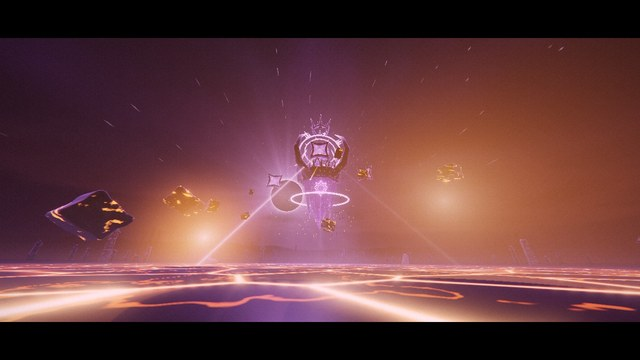
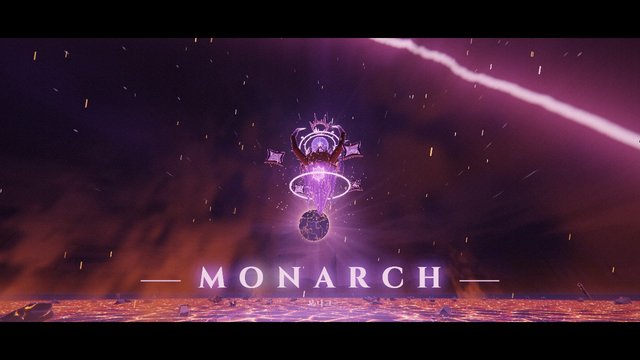
MONARCH V2: quality pass - lava, veins, smoke columns, 3D ash, heat haze, lens dirt
Warped Voronoi lava with sparks, crystal veins in the obsidian keel,
fire underlight, billowing smoke columns at strike sites, camera-relative
3D ash and embers, heat haze over fire, lens dirt and halation, and a
light sweep across the title. Thumbnails refreshed.

diff --git a/public/monarch2_gl.html b/public/monarch2_gl.html
@@ -195,12 +195,12 @@ float veilK(vec3 p){ vec3 v = p - (uM + vec3(0., OY - 14., 0.)); float al = -v.y
 vec3 floorCol(vec3 p, vec3 rd, float t){
   vec2 q = p.xz - uM.xz; float r = length(q), aa = t * 1.5 / uRes.y / max(-rd.y, .02);
   float pud = smoothstep(.46, .6, fbz(p.xz * .018 + 3.)); vec3 col = vec3(.011, .009, .015) * (.6 + .6 * fbz(p.xz * .03)) * (.8 + .4 * fbz(p.xz * .4)) * (1. - .5 * pud); float rough = mix(.45 + .3 * fbz(p.xz * .2), .03, pud);   // 젖은 흑요석 · 웅덩이
-  vec2 g = p.xz * .035; vec2 gi = floor(g), gf = fract(g); float d1 = 8., d2 = 8.;
+  vec2 g = p.xz * .035 + (vec2(fbz(p.xz * .008), fbz(p.xz * .008 + 5.2)) - .5) * 1.6; vec2 gi = floor(g), gf = fract(g); float d1 = 8., d2 = 8.;                   // 비틀린 균열(격자처럼 보이지 않게)
   for (int j = uZero - 1; j <= 1; j++) for (int i = uZero - 1; i <= 1; i++){ vec2 c = vec2(float(i), float(j)), o2 = vec2(hash(gi + c), hash(gi + c + 7.1)); float d = length(c + o2 - gf); if (d < d1){ d2 = d1; d1 = d; } else if (d < d2) d2 = d; }
   float Dd = destroyAt(p.xz), crack = smoothstep(.03 + .09 * Dd + aa * .03, 0., d2 - d1), zone = smoothstep(95., 30., r) * uCrackK + smoothstep(60., 20., r) * uEmerge * 1.5, pul = .7 + .3 * sin(uT * 1.7 - r * .08);                           // 발밑의 균열 문양(지배자와 함께 움직인다)
   col += vec3(.45, .12, 1.) * crack * (zone * 1.6 * pul + .05 * uCrackK) * (1. - Dd) + vec3(.8, .55, 1.) * smoothstep(40., 26., r) * smoothstep(20., 27., r) * uEmerge * 1.2;
   if (Dd > 0.){ float inner = smoothstep(.03 + .04 * Dd, 0., d2 - d1), fine = smoothstep(.012, 0., abs(fbz(p.xz * .06 + 9.) - .5) - .004) * Dd; col *= 1. - .75 * Dd; col += mix(vec3(1., .2, .02), vec3(1., .72, .3), inner) * (crack * (.9 + 1.2 * inner) + fine * .8) * Dd + vec3(.5, .08, .01) * Dd * .03;   // 검은 껍질 사이로 흐르는 용암
-    float cn = .6 + .6 * noise(p.xz * .3); for (int i = uZero; i < 16; i++){ vec4 b = uBeam[i]; if (b.w < 0.) continue; float dc = length(p.xz - b.xz); if (dc > 26.) continue; col += vec3(1., .4, .1) * smoothstep(26., 0., dc) * cn * exp(-b.w * .3) + vec3(1., .85, .6) * smoothstep(9., 0., dc) * 1.8 * exp(-b.w * .6); } }   // 분화구
+    float cn = .6 + .6 * noise(p.xz * .3); col += vec3(1., .7, .3) * step(.994, hash(floor(p.xz * 1.3) + floor(uT * 7.))) * Dd * 3.; for (int i = uZero; i < 16; i++){ vec4 b = uBeam[i]; if (b.w < 0.) continue; float dc = length(p.xz - b.xz); if (dc > 26.) continue; col += vec3(1., .4, .1) * smoothstep(26., 0., dc) * cn * exp(-b.w * .3) + vec3(1., .85, .6) * smoothstep(9., 0., dc) * 1.8 * exp(-b.w * .6); } }   // 분화구
   if (r > 70. && r < 78.){ float an = atan(q.y, q.x) / 6.2832 + .5, v = (r - 70.) / 8.; float a = texture(uAtlas, vec2(fract(an * 5. - uT * .01), v)).r; col += vec3(.75, .6, 1.) * a * 1.4 * uCrackK + vec3(.5, .35, 1.) * smoothstep(.05, 0., min(v, 1. - v)) * .6 * uCrackK; }
   col += vec3(.55, .35, 1.) * smoothstep(.6, 0., abs(r - 84.)) * .9 * uCrackK;
   if (uShock > 0.){ float w = abs(r - uShock); col += vec3(.8, .6, 1.) * exp(-w * .12) * 2.5 * (1. - smoothstep(300., 700., uShock)) + vec3(.5, .2, 1.) * crack * smoothstep(uShock, uShock - 80., r) * 2. * (1. - smoothstep(250., 700., uShock)); }
@@ -216,6 +216,7 @@ vec3 shade(vec3 p, vec3 n, vec3 rd, float id, float t){
   if (id < 1.5){ alb = vec3(.022, .016, .032); rough = .16; metal = .7;                                                                                    // 흑요석 몸: 이음새 · 8각 별 문장
     float an = atan(q.z, q.x), sc = .785398, a2 = mod(an + sc * .5, sc) - sc * .5, rr = length(q.xz); float seam = smoothstep(.5, 0., abs(a2) * rr - .0) * step(q.y, 99.) * step(44., q.y);
     float band = smoothstep(.5, 0., abs(fract((q.y - 40.) / 12.) - .5) * 12. - 5.6) * step(q.y, 99.); em += vec3(.5, .18, 1.) * (seam * .6 + band * .35) * (.7 + .3 * sin(uT * 2. - q.y * .05));
+    float vein = smoothstep(.035, 0., abs(fbz(vec2(an * 4., q.y * .07) + 3.) - .5)) * step(q.y, 110.); em += mix(vec3(.55, .2, 1.), vec3(1., .45, .12), uFire * .6) * vein * (.55 + .45 * sin(uT * 3. + q.y * .2));   // 흑요석 속의 결정 맥
     if (abs(an - 1.5708) < .39 && q.y > 70. && q.y < 99.){ vec2 sq = vec2(q.x, q.y - 86.); float st = sdStarN(sq, 9., 8., 3.2), st2 = sdStarN(sq, 5.5, 8., 3.6);
       em += vec3(.6, .25, 1.) * (smoothstep(.35, 0., abs(st) - .3) * 2. + smoothstep(.3, -1., st) * .2 + smoothstep(.3, 0., abs(st2) - .2) * 1.2) * (1. + .6 * uPower); } }
   else if (id < 2.5){ alb = vec3(.02, .015, .03); rough = .22; metal = .6; vec2 sq = vec2(q.x, q.y - 112. - (41. - 2.8) * .42); if (q.z > -8.5 && abs(sq.x) < 3.5 && abs(sq.y) < 3.5){ float st = sdStarN(sq, 2.3, 8., 3.2); em += vec3(.55, .2, 1.) * smoothstep(.12, 0., abs(st) - .06) * 1.6; } }
@@ -248,6 +249,7 @@ vec3 shade(vec3 p, vec3 n, vec3 rd, float id, float t){
     em += vec3(.45, .15, 1.) * rune * (.18 + .5 * uOrbK * exp(-length(p.xz - uM.xz) * .004)) + vec3(.45, .15, 1.) * smoothstep(.04, 0., .5 - abs(fract(p.y * .08 + hash(cid)) - .5)) * .12;   // 오벨리스크
     li *= 1.; }
   vec3 f0 = mix(vec3(.04), alb * 3. + .05, metal), spec = f0 * pow(max(dot(n, hv), 0.), mix(900., 20., rough)) * (1. - rough) * 4.;
+  em += (alb * 4. + f0) * vec3(1., .38, .08) * uFire * max(-n.y, 0.) * .9 + vec3(1., .35, .08) * uFire * pow(1. - ndv, 3.) * .25 * step(id, 16.5);   // 불타는 땅이 아래에서 비춘다
   if (id > 19.5){ alb = vec3(.02, .016, .014); rough = .8; metal = 0.; float hot = pow(fbz(p.xz * .4 + p.y * .5), 2.); em = vec3(1., .35, .06) * smoothstep(.35, .6, hot) * 2.2 * uFire; }
   if (id > 16.5 && id < 19.5){ spec = vec3(0.); rim = vec3(0.); }
   vec3 col = (alb * (1. - metal) * ndl + spec * ndl) * li + rim * ao + vec3(.7, .6, 1.) * uFlash * .2 * alb * 6. + em;
@@ -277,22 +279,28 @@ void main(){
     float env = smoothstep(0., .04, b.w) * exp(-b.w * 4.); if (tc < depth + 5.) col += (vec3(1., .95, 1.) * exp(-dd * 1.6) * 2.2 + vec3(.85, .3, 1.) * exp(-dd * .15) * .5) * env;
     vec3 fb = B + vec3(0., 10. + b.w * 16., 0.) - ro; float tf2 = max(dot(fb, rd), 0.), df = length(fb - rd * tf2), fr = 14. + b.w * 30.;
     if (tf2 < depth + fr) col += (vec3(1., .45, .1) * 1. + vec3(1., .85, .55) * exp(-df / fr * 5.) * 1.2) * exp(-df * df / (fr * fr)) * exp(-b.w * 1.3) * smoothstep(0., .05, b.w); }
+  if (uDestroy > 0.){ float a2 = dot(rd.xz, rd.xz); if (a2 > 1e-5) for (int i = uZero; i < 8; i++){ vec4 b = uBeam[i]; if (b.w < .15) continue; vec2 oc = ro.xz - b.xz; float tc = -dot(oc, rd.xz) / a2; if (tc < 0. || tc > depth) continue;   // 폭격 자리에서 솟는 검은 연기 기둥
+      vec3 x = ro + rd * tc; float rr = length(x.xz - b.xz), H = min(40. + b.w * 45., 190.), w = min(7. + b.w * 4. + x.y * .07, 24.); if (x.y < 0. || x.y > H || rr > w * 2.2) continue;
+      float lat = dot(x.xz - b.xz, vec2(-rd.z, rd.x)) / sqrt(a2), n1 = noise(vec2(lat * .09 + b.x, x.y * .05 - uT * .6)) * .65 + noise(vec2(lat * .23 - b.z, x.y * .13 - uT * 1.1)) * .35, den = exp(-rr * rr / (w * w)) * smoothstep(.25, .8, n1) * smoothstep(H, H * .5, x.y) * smoothstep(0., 12., x.y) * smoothstep(0., .5, b.w) * smoothstep(20., 80., tc);
+      col = mix(col, vec3(.016, .011, .012) + vec3(1., .32, .06) * exp(-x.y * .03) * .45 * uFire + vec3(.3, .1, .5) * .05, den * .55); } }
   { vec3 v = uM + vec3(0., OY, 0.) - ro; float tc = max(dot(v, rd), 0.), d = length(v - rd * tc); col += LC * uOrbI * 1.2 / (1. + d * d * .0006) * .05 * uOrbK * step(tc, depth + 20.); }
   o = vec4(max(col, 0.), min(depth, 4000.));
 }`;
 const FS_FINAL = `#version 300 es
 precision highp float; in vec2 vUv; out vec4 o;
-uniform sampler2D uScene, uBloom, uTxt, uRays; uniform vec2 uRes, uShake; uniform float uT, uZoom, uCA, uBloomK, uRayK, uFocus, uAper, uFlash, uFade, uGrainK, uBlock, uTrans, uCold, uWarm;
+uniform sampler2D uScene, uBloom, uTxt, uRays; uniform vec2 uRes, uShake; uniform float uT, uZoom, uCA, uBloomK, uRayK, uFocus, uAper, uFlash, uFade, uGrainK, uBlock, uTrans, uCold, uWarm, uHeat;
 ${CSGL.NOISE}
 vec3 scene(vec2 uv){ vec4 c0 = texture(uScene, uv); float coc = clamp(abs(c0.a - uFocus) / max(c0.a, .3) * uAper, 0., 1.) * .012; if (coc < .0006) return c0.rgb;
   vec3 acc = c0.rgb; float n = 1.; for (int i = 0; i < 16; i++){ float fi = float(i) + .5, a = fi * 2.39996, r = sqrt(fi / 16.) * coc; vec2 d = vec2(cos(a), sin(a)) * r * vec2(uRes.y / uRes.x, 1.); vec4 sx = texture(uScene, uv + d); float w = 1. + 2. * max(max(sx.r, sx.g), sx.b); acc += sx.rgb * w; n += w; } return acc / n; }
 void main(){
   vec2 uv = (vUv - .5) / uZoom + .5 + uShake;
   if (uBlock > 1.5){ vec2 cell = floor(uv * uRes / uBlock); float h = hash(cell + floor(uT * 30.)); uv = (cell + .5) * uBlock / uRes; if (h < uTrans * .3) uv += (vec2(hash(cell + 3.), hash(cell + 5.)) - .5) * .05 * uTrans; }   // 화면 전환: 픽셀로 흩어졌다 모인다
+  if (uHeat > 0.){ vec3 s0 = texture(uScene, uv).rgb; float wm = smoothstep(.05, .45, s0.r - s0.b * .8); uv += (vec2(noise(uv * vec2(38., 22.) + vec2(0., -uT * 2.6)), noise(uv * vec2(38., 22.) + vec2(7., -uT * 3.1))) - .5) * .006 * uHeat * wm; }   // 용암 · 불 위의 아지랑이
   if (uv.x < 0. || uv.x > 1. || uv.y < 0. || uv.y > 1.){ o = vec4(0., 0., 0., 1.); return; }
   vec2 dir = uv - .5; float ca = uCA * (.3 + length(dir) * 1.8) + uTrans * .01; vec3 col = scene(uv); if (ca > .0003){ vec3 c0 = texture(uScene, uv).rgb; col.r += texture(uScene, uv + dir * ca).r - c0.r; col.b += texture(uScene, uv - dir * ca).b - c0.b; col = max(col, 0.); }
   vec3 bl = texture(uBloom, uv).rgb, st = vec3(0.); for (int i = -7; i <= 7; i++){ float fi = float(i); st += texture(uBloom, uv + vec2(fi * .015, 0.)).rgb * exp(-fi * fi * .06); }
-  col += bl * uBloomK + st * .07 * uBloomK * vec3(.8, .7, 1.) + texture(uRays, uv).rgb * uRayK;
+  float dirt = pow(fbm(vUv * vec2(5., 3.) + 3.), 3.) * 1.6 + pow(noise(vUv * vec2(60., 34.)), 12.) * 2.;                                                     // 렌즈 먼지 · 할레이션
+  col += bl * uBloomK * (1. + dirt * .7) + st * .07 * uBloomK * vec3(.8, .7, 1.) + texture(uRays, uv).rgb * uRayK + bl * vec3(.18, .04, .02) * uWarm * .6;
   vec4 tx = texture(uTxt, uv); col = col * (1. - tx.a) + tx.rgb; col += vec3(.85, .8, 1.) * uFlash;
   col = (col * (2.51 * col + .03)) / (col * (2.43 * col + .59) + .14); col = pow(clamp(col, 0., 1.), vec3(1. / 2.2)); col = mix(col, col * col * (3. - 2. * col), .35) * vec3(.98, .95, 1.04); float lu = dot(col, vec3(.3, .55, .15)); col = mix(col, vec3(lu) * vec3(.72, .88, 1.15), uCold * .55); col = mix(col, col * vec3(1.1, .93, .88) + vec3(.02, .003, 0.) * (1. - lu), uWarm * .5);   // 차가운 밤 → 불지옥
   col += (hash(gl_FragCoord.xy + fract(uT) * 91.7) - .5) * .035 * uGrainK; float v = length((vUv - .5) * vec2(1., .8)); col *= 1. - smoothstep(.42, 1.1, v) * .6;
@@ -336,10 +344,21 @@ function boltPath(seed, M) { const r = rng(seed * 7919 + 13), a = r() * TAU, rad
 function drawBolt(S, pts, k, black) { const P2 = pts.map((p) => proj(S, p)); if (P2.some((q) => !q)) return;
   const line = (w, c) => { tg.strokeStyle = c; tg.lineWidth = w; tg.beginPath(); P2.forEach((q, i) => (i ? tg.lineTo(q[0], q[1]) : tg.moveTo(q[0], q[1]))); tg.stroke(); };
   tg.lineJoin = "round"; tg.lineCap = "round"; if (black) { line(U * .05, `rgba(150,80,255,${.35 * k})`); line(U * .022, `rgba(0,0,0,${.95 * k})`); } else { line(U * .09, `rgba(140,70,255,${.18 * k})`); line(U * .03, `rgba(200,150,255,${.7 * k})`); line(U * .01, `rgba(255,250,255,${k})`); } }
+const ASH = (() => { const r = rng(515), a = []; for (let i = 0; i < 420; i++) a.push({ p: [r(), r(), r()], s: .4 + r() * .9, ph: r() * TAU, k: r() }); return a; })();
+function drawAsh(t, S) {                                                                                          // 차가운 밤의 재 · 파괴 때의 불똥
+  const cold = S.cold, warm = S.warm; if (cold < .02 && warm < .02) return; const B = 60, c = S.cam.pos; tg.save(); tg.globalCompositeOperation = "lighter";
+  for (const a of ASH) { const hot = a.k < warm * .9; if (!hot && a.k > cold * .6 + .1) continue;
+    const vy = hot ? 6 + 10 * a.s : -1.2 - a.s, wx = hot ? 3 : 1.6, o = [a.p[0] * B + t * wx + Math.sin(t * .8 + a.ph) * 2, a.p[1] * B + t * vy, a.p[2] * B + Math.cos(t * .6 + a.ph) * 2];
+    const w = [c[0] + ((((o[0] - c[0]) % B) + B) % B) - B / 2, c[1] + ((((o[1] - c[1]) % B) + B) % B) - B / 2, c[2] + ((((o[2] - c[2]) % B) + B) % B) - B / 2], q = proj(S, w); if (!q || q[2] < 1.5) continue;
+    const sz = Math.min(U * .05, a.s * .12 * S.focal * Hd / 2 / q[2]); if (sz < .35) continue; const fl = hot ? .6 + .4 * Math.sin(t * 14 + a.ph * 7) : 1;
+    tg.globalAlpha = (hot ? .9 : .4) * fl * Math.min(1, q[2] / 6); const col = hot ? (a.k < .3 ? "255,240,192" : "255,138,48") : "154,166,200";
+    if (hot) { tg.strokeStyle = `rgba(${col},1)`; tg.lineWidth = Math.max(.6, sz * .7); tg.lineCap = "round"; tg.beginPath(); tg.moveTo(q[0], q[1]); tg.lineTo(q[0] - sz * .6, q[1] + sz * 4); tg.stroke(); }   // 불똥: 가는 꼬리
+    else { tg.fillStyle = `rgba(${col},1)`; tg.beginPath(); tg.arc(q[0], q[1], Math.max(.5, sz * .8), 0, TAU); tg.fill(); } }
+  tg.restore(); }
 const EMB = (() => { const r = rng(77), a = []; for (let i = 0; i < 260; i++) a.push({ a: r() * TAU, r: 10 + r() * 60, y0: r() * 120, sp: 4 + r() * 10, ph: r(), s: .25 + r() * .5 }); return a; })();
 function drawOverlay(t, S) {
   tg.setTransform(1, 0, 0, 1, 0, 0); tg.clearRect(0, 0, tcv.width, tcv.height); tg.setTransform(DPR, 0, 0, DPR, 0, 0);
-  const M = S.M;
+  const M = S.M; drawAsh(t, S);
   tg.save(); if (t >= T.HALO) for (const e of EMB) { const y = (e.y0 + t * e.sp) % 170, p = add(M, [Math.cos(e.a + t * .1) * e.r, 20 + y, Math.sin(e.a + t * .1) * e.r - 20 * (y / 170)]), q = proj(S, p); if (!q) continue;   // 지배자 곁에서 솟는 불티
     const sz = Math.min(U * .06, Math.max(.6, e.s * S.focal * Hd / 2 / q[2] * .45)), al = Math.min(1, y / 20) * (1 - y / 170) * .8; tg.globalAlpha = al; tg.fillStyle = h1(e.a * 9) < .3 ? "#000" : (S.warm > .3 && h1(e.a * 5) < S.warm ? "#ffa050" : "#c9a8ff"); tg.fillRect(q[0] - sz, q[1] - sz, sz * 2, sz * 2); } tg.restore();
   for (const m of METEORS) { const k = (t - m.t0) / m.dur; if (k < 0 || k > 1) continue; const h = proj(S, mix3(m.from, m.to, k)), tl = proj(S, mix3(m.from, m.to, Math.max(0, k - .22)));   // 불타며 떨어지는 유성
@@ -350,6 +369,8 @@ function drawOverlay(t, S) {
   if (t >= T.TITLE) { const k = eOut(seg(t, T.TITLE, T.TITLE + 1.4)), y = Hd * .78, sp = U * (.3 + .25 * (1 - k)); tg.save(); tg.globalAlpha = k * (1 - seg(t, T.END - .9, T.END - .4));
     tg.font = `700 ${Math.round(U * .8)}px Cinzel, 'Times New Roman', serif`; tg.textAlign = "center"; tg.textBaseline = "middle"; const word = "MONARCH", ws = [...word].map((c) => tg.measureText(c).width), w = ws.reduce((a, b) => a + b, 0) + sp * (word.length - 1);
     let x = Wd / 2 - w / 2; tg.shadowColor = "rgba(150,90,255,.9)"; tg.shadowBlur = U * .4; tg.fillStyle = "#f0e8ff"; [...word].forEach((c, i) => { tg.fillText(c, x + ws[i] / 2, y); x += ws[i] + sp; }); tg.shadowBlur = 0;
+    { const sx = Wd / 2 - w / 2 + (w + U * 2) * seg(t, T.TITLE + .2, T.TITLE + 1.4) - U, gr = tg.createLinearGradient(sx - U, 0, sx + U, 0); gr.addColorStop(0, "rgba(255,255,255,0)"); gr.addColorStop(.5, "rgba(255,250,255,.9)"); gr.addColorStop(1, "rgba(255,255,255,0)");   // 빛이 글자를 훑는다
+      tg.save(); tg.globalCompositeOperation = "source-atop"; tg.fillStyle = gr; tg.fillRect(sx - U, y - U, U * 2, U * 2); tg.restore(); }
     const lw = w * .5 * k; tg.fillStyle = "rgba(190,160,255,.85)"; tg.fillRect(Wd / 2 - w / 2 - U * .5 - lw * .4, y - 1, lw * .4, 2); tg.fillRect(Wd / 2 + w / 2 + U * .5, y - 1, lw * .4, 2);
     tg.font = `500 ${Math.round(U * .2)}px "Noto Serif KR", serif`; tg.fillStyle = "rgba(220,205,255,.8)"; tg.fillText("모 나 크", Wd / 2, y + U * .62); tg.restore(); }
 }
@@ -407,7 +428,7 @@ function render(t) {
   X.pass(P.final(), null, (u2) => { X.bindTex(0, TG.tex, u2.uScene); X.bindTex(1, bloomTex, u2.uBloom); X.bindTex(2, txtTex, u2.uTxt); X.bindTex(3, raysTex, u2.uRays); gl.uniform2f(u2.uRes, pw, ph); gl.uniform1f(u2.uT, t);
     gl.uniform2f(u2.uShake, (r0() - .5) * hit * .02, (r0() - .5) * hit * .02); gl.uniform1f(u2.uZoom, 1 + .02 * hit + .05 * S.trans); gl.uniform1f(u2.uCA, .0012 + .005 * hit);
     for (const [n, v] of [["uBloomK", S.bloom], ["uRayK", lp ? S.rays : 0], ["uFocus", S.focus], ["uAper", S.aper], ["uFlash", .12 * S.flash * S.flash], ["uFade", S.fade], ["uGrainK", $("cs").classList.contains("rec") ? .4 : 1],
-      ["uBlock", 1 + Math.round(Math.pow(S.trans, 1.5) * 34) * ph / 1080], ["uTrans", S.trans], ["uCold", S.cold], ["uWarm", S.warm]]) if (u2[n] != null) gl.uniform1f(u2[n], v); });
+      ["uBlock", 1 + Math.round(Math.pow(S.trans, 1.5) * 34) * ph / 1080], ["uTrans", S.trans], ["uCold", S.cold], ["uWarm", S.warm], ["uHeat", S.fire]]) if (u2[n] != null) gl.uniform1f(u2[n], v); });
 }
 
 /* ═════════════════ 재생 ═════════════════ */
